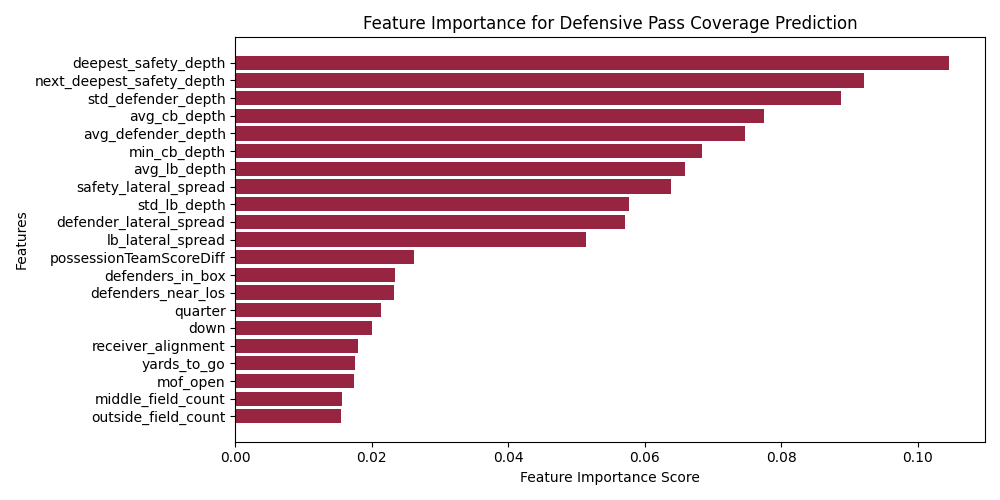
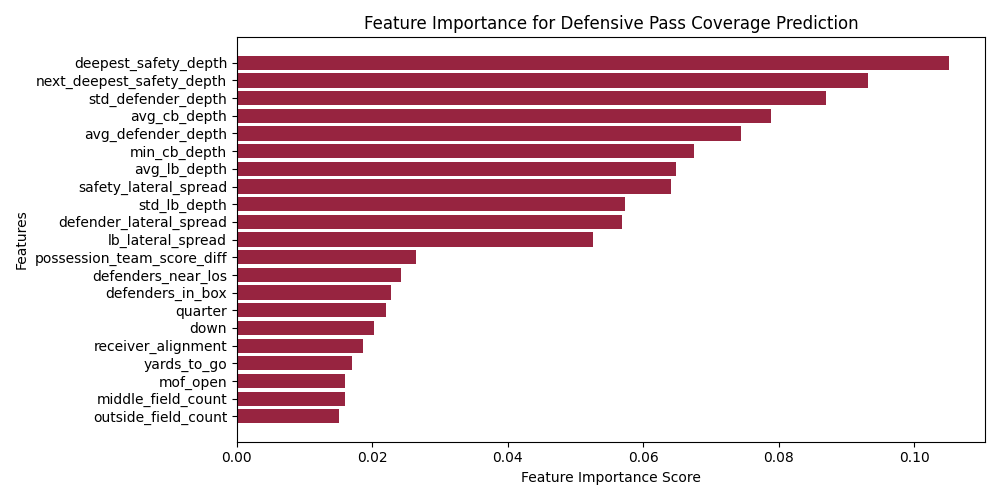
final changes

diff --git a/random_tree.py b/random_tree.py
@@ -16,77 +16,15 @@ def RandomForest(x, y, dataframe):
 
     train_x, test_x, train_y, test_y = train_test_split(x, y, test_size=0.2, random_state=42)
 
-    # CALCULATE BEST n_estimator
-    # n_estimators_range = range(10, 401, 10)
-    # n_accuracy_scores = []
-    # best_n = 0
-    # best_acc = 0
-    # for n in n_estimators_range:
-    #     print('n:', n)
-    #     rf = RandomForestClassifier(n_estimators=n, max_depth=20, random_state=42, class_weight='balanced') # 42
-    #     rf.fit(train_x, train_y)
-    #     y_pred = rf.predict(test_x)
+    # best_n_estimator, best_max_depth = get_optimal_hyperparameters(train_x, train_y, test_x, test_y)
+    # print('best_n_estimator:', best_n_estimator)
+    # print('best_max_depth:', best_max_depth)
+    best_n_estimator = 420
+    best_max_depth = 30
 
-    #     accuracy = accuracy_score(test_y, y_pred)
-    #     if accuracy > best_acc:
-    #         best_acc = accuracy
-    #         best_n = n
-
-    #     n_accuracy_scores.append(accuracy)
-
-    # plt.figure(figsize=(10, 6))
-    # plt.plot(n_estimators_range, n_accuracy_scores, marker='o')
-    # plt.title('Effect of n_estimators on Random Forest Performance')
-    # plt.xlabel('Number of Trees (n_estimators)')
-    # plt.ylabel('Accuracy')
-    # plt.grid(True)
-    # plt.savefig('diagrams/n_estimators.png')
-
-    # print('BEST n_estimator:', best_n)
-
-    # CALCULATE BEST max_depth_range
-    # max_depth_range = range(1, 41)
-    # depth_accuracy_scores = []
-    # best_depth = 0
-    # best_acc = 0
-    # for depth in max_depth_range:
-    #     print('depth:', depth)
-    #     rf = RandomForestClassifier(n_estimators=180, max_depth=depth, random_state=42, class_weight='balanced') # 42
-    #     rf.fit(train_x, train_y)
-    #     y_pred = rf.predict(test_x)
-
-    #     accuracy = accuracy_score(test_y, y_pred)
-    #     if accuracy > best_acc:
-    #         best_acc = accuracy
-    #         best_depth = depth
-
-    #     depth_accuracy_scores.append(accuracy)
-
-    # plt.figure(figsize=(10, 6))
-    # plt.plot(max_depth_range, depth_accuracy_scores, marker='o')
-    # plt.title('Effect of max_depth on Random Forest Performance')
-    # plt.xlabel('Max Depth')
-    # plt.ylabel('Accuracy')
-    # plt.grid(True)
-    # plt.savefig('diagrams/max_depths.png')
-
-    # print('BEST max_depth:', best_depth)
-    
-
-    best_n_estimator = 180
-    best_max_depth = 20
-
-
-    # Best results:  n_estimators=200, max_depth=20, random_state=42, class_weight='balanced'
     rf = RandomForestClassifier(n_estimators=best_n_estimator, max_depth=best_max_depth, random_state=42, class_weight='balanced') # 42
     rf.fit(train_x, train_y)
     y_pred_rf = rf.predict(test_x)
-
-
-
-
-
-
 
 
     majority_class = np.bincount(train_y).argmax()
@@ -100,17 +38,13 @@ def RandomForest(x, y, dataframe):
     print('======================================================================================================')
     print(f'Random Forest Accuracy: {accuracy_score(test_y, y_pred_rf)*100:.2f}% (~0.02 seconds)')
     print(f'Baseline Accuracy:\t{baseline_accuracy*100:.2f}%')
-    print(f'Baseline Precision:\t{precision_baseline*100:.2f}%')
-    print(f'Baseline Recall:\t{recall_baseline*100:.2f}%')
-    print(f'Baseline F1-Score:\t{f1_baseline*100:.2f}%')
     print(classification_report(test_y, y_pred_rf))
 
 
 
     # DIAGRAMS
     ######################################################################################################
-    classes = ['Cover-1', 'Cover-2', 'Cover-3', 'Cover-6', 'Cover-4', 'Other']
-    # classes = ['C-1 Man', 'C-2']
+    classes = ['Cover-1', 'Cover-2', 'Cover-3', 'Cover-6', 'Quarters', 'Other']
     cardinals_red = '#972440'
 
     # FEATURE IMPORTANCE
@@ -146,49 +80,49 @@ def RandomForest(x, y, dataframe):
     plt.ylabel('True Labels')
     plt.title('Confusion Matrix')
     plt.tight_layout()
-    plt.savefig('diagrams/rf_confusion_matrix_51features.png')
+    plt.savefig('diagrams/rf_confusion_matrix.png')
 
 
 
     # dataframe_temp = dataframe[dataframe['down'] != 4.0] # Remove 'Other' coverage class and 4th-Down plays
-    coverage_dist = dataframe.groupby(['down', 'target_y']).size().unstack()
-    coverage_dist = coverage_dist.div(coverage_dist.sum(axis=1), axis=0) # Normalize
-    fig, axes = plt.subplots(2, 2, figsize=(12, 10))
-    downs = [1, 2, 3, 4]
-    suffix = ['st', 'nd', 'rd', 'th']
-    colors = ['#fc7060', '#db44d4', '#f0872b', '#7dcc7f', '#ffe046', '#1a76bc']
-    for i, down in enumerate(downs):
-        ax = axes[i//2, i%2]  # Calculate position for a 2x2 grid
-        ax.pie(coverage_dist.loc[down], labels=classes, colors=colors, autopct='%1.1f%%', startangle=90)
-        ax.set_title(f'Coverage Distribution - {down}{suffix[i]}-Down')
+    # coverage_dist = dataframe.groupby(['down', 'target_y']).size().unstack()
+    # coverage_dist = coverage_dist.div(coverage_dist.sum(axis=1), axis=0) # Normalize
+    # fig, axes = plt.subplots(2, 2, figsize=(12, 10))
+    # downs = [1, 2, 3, 4]
+    # suffix = ['st', 'nd', 'rd', 'th']
+    # colors = ['#fc7060', '#db44d4', '#f0872b', '#7dcc7f', '#ffe046', '#1a76bc']
+    # for i, down in enumerate(downs):
+    #     ax = axes[i//2, i%2]  # Calculate position for a 2x2 grid
+    #     ax.pie(coverage_dist.loc[down], labels=classes, colors=colors, autopct='%1.1f%%', startangle=90)
+    #     ax.set_title(f'Coverage Distribution - {down}{suffix[i]}-Down')
 
-    plt.tight_layout()
-    plt.savefig('diagrams/coverage_distribution_pie.png')
+    # plt.tight_layout()
+    # plt.savefig('diagrams/coverage_distribution_pie.png')
 
 
 
     # Create a subset of features relevant to coverage prediction
-    dataframe_temp = dataframe[dataframe['target_y'] != 5.0] # Remove 'Other' coverage class
-    relevant_features = dataframe_temp[['deepest_safety_depth', 'next_deepest_safety_depth', 'target_y']]
-    sns.pairplot(relevant_features, hue='target_y', palette='Set1')
-    # pairplot._legend.remove()
-    # plt.legend(title='Coverage Type', labels=classes, bbox_to_anchor=(1.9, 1), loc='upper right')
-    # plt.subplots_adjust(right=0.85)
+    # dataframe_temp = dataframe[dataframe['target_y'] != 5.0] # Remove 'Other' coverage class
+    # relevant_features = dataframe_temp[['deepest_safety_depth', 'next_deepest_safety_depth', 'target_y']]
+    # sns.pairplot(relevant_features, hue='target_y', palette='Set1')
+    # # pairplot._legend.remove()
+    # # plt.legend(title='Coverage Type', labels=classes, bbox_to_anchor=(1.9, 1), loc='upper right')
+    # # plt.subplots_adjust(right=0.85)
+    # # plt.tight_layout()
+    # plt.savefig('diagrams/key_features_pairwise.png')
+
+
+    # dataframe_temp = dataframe[dataframe['target_y'] != 5.0] # Remove 'Other' coverage class
+    # # dataframe_temp['targey_y'] = dataframe_temp['target_y'].map(lambda x: classes[x]) # Map target_y class names
+    # plt.figure(figsize=(10, 6))
+    # # sns.boxplot(x='target_y', y='next_deepest_safety_depth', data=dataframe_temp, palette='Set2')
+    # sns.boxplot(x='target_y', y='next_deepest_safety_depth', data=dataframe_temp, hue='target_y', palette='Set2', legend=False)
+    # plt.title('Distribution of "next_deepest_safety_depth" by Coverage Type')
+    # plt.xlabel('Coverage Type')
+    # plt.ylabel('Next Deepest Safety Depth')
+    # plt.xticks(rotation=45)
     # plt.tight_layout()
-    plt.savefig('diagrams/key_features_pairwise.png')
-
-
-    dataframe_temp = dataframe[dataframe['target_y'] != 5.0] # Remove 'Other' coverage class
-    # dataframe_temp['targey_y'] = dataframe_temp['target_y'].map(lambda x: classes[x]) # Map target_y class names
-    plt.figure(figsize=(10, 6))
-    # sns.boxplot(x='target_y', y='next_deepest_safety_depth', data=dataframe_temp, palette='Set2')
-    sns.boxplot(x='target_y', y='next_deepest_safety_depth', data=dataframe_temp, hue='target_y', palette='Set2', legend=False)
-    plt.title('Distribution of "next_deepest_safety_depth" by Coverage Type')
-    plt.xlabel('Coverage Type')
-    plt.ylabel('Next Deepest Safety Depth')
-    plt.xticks(rotation=45)
-    plt.tight_layout()
-    plt.savefig('diagrams/next_deepest_safety_depth_distribution.png')
+    # plt.savefig('diagrams/next_deepest_safety_depth_distribution.png')
 
 
     # Create boxplots for avg_depth features across coverage types
@@ -208,18 +142,85 @@ def RandomForest(x, y, dataframe):
     # plt.savefig('diagrams/depth_pairplots.png')
 
 
-    param_grid = {
-        'n_estimators': [100, 200, 300],
-        'max_depth': [10, 15, 20],
-        'min_samples_split': [2, 5, 10],
-        'min_samples_leaf': [2, 4, 6],
-        'max_features': ['auto', 'sqrt']
-    }
+    # param_grid = {
+    #     'n_estimators': [100, 200, 300],
+    #     'max_depth': [10, 15, 20],
+    #     'min_samples_split': [2, 5, 10],
+    #     'min_samples_leaf': [2, 4, 6],
+    #     'max_features': ['auto', 'sqrt']
+    # }
 
     # rf = RandomForestClassifier(random_state=42)
     # grid_search = GridSearchCV(estimator=rf, param_grid=param_grid, cv=3, n_jobs=-1, scoring='accuracy')
     # grid_search.fit(train_x, train_y)
 
     # print(grid_search.best_params_)
+
+def get_optimal_hyperparameters(train_x, train_y, test_x, test_y):
+    n_estimators_range = range(10, 501, 10)
+    n_accuracy_scores_depth10 = []
+    n_accuracy_scores_depth20 = []
+    n_accuracy_scores_depth30 = []
+    n_accuracy_scores_depth40 = []
+    best_n = 0
+    best_depth = 0
+    best_acc = 0
+    for n in n_estimators_range:
+        print('n:', n)
+
+        rf_depth10 = RandomForestClassifier(n_estimators=n, max_depth=10, random_state=42, class_weight='balanced')
+        rf_depth10.fit(train_x, train_y)
+        y_pred_depth10 = rf_depth10.predict(test_x)
+        accuracy_depth10 = accuracy_score(test_y, y_pred_depth10)
+        n_accuracy_scores_depth10.append(accuracy_depth10)
+        if accuracy_depth10 > best_acc:
+            best_acc = accuracy_depth10
+            best_n = n
+            best_depth = 10
+
+        rf_depth20 = RandomForestClassifier(n_estimators=n, max_depth=20, random_state=42, class_weight='balanced')
+        rf_depth20.fit(train_x, train_y)
+        y_pred_depth20 = rf_depth20.predict(test_x)
+        accuracy_depth20 = accuracy_score(test_y, y_pred_depth20)
+        n_accuracy_scores_depth20.append(accuracy_depth20)
+        if accuracy_depth20 > best_acc:
+            best_acc = accuracy_depth20
+            best_n = n
+            best_depth = 20
+
+        rf_depth30 = RandomForestClassifier(n_estimators=n, max_depth=30, random_state=42, class_weight='balanced')
+        rf_depth30.fit(train_x, train_y)
+        y_pred_depth30 = rf_depth30.predict(test_x)
+        accuracy_depth30 = accuracy_score(test_y, y_pred_depth30)
+        n_accuracy_scores_depth30.append(accuracy_depth30)
+        if accuracy_depth30 > best_acc:
+            best_acc = accuracy_depth30
+            best_n = n
+            best_depth = 30
+
+        rf_depth40 = RandomForestClassifier(n_estimators=n, max_depth=40, random_state=42, class_weight='balanced')
+        rf_depth40.fit(train_x, train_y)
+        y_pred_depth40 = rf_depth40.predict(test_x)
+        accuracy_depth40 = accuracy_score(test_y, y_pred_depth40)
+        n_accuracy_scores_depth40.append(accuracy_depth40)
+        if accuracy_depth40 > best_acc:
+            best_acc = accuracy_depth40
+            best_n = n
+            best_depth = 40
+
+
+    plt.figure(figsize=(10, 6))
+    plt.plot(n_estimators_range, n_accuracy_scores_depth10, marker='o', label='RF with max_depth=10')
+    plt.plot(n_estimators_range, n_accuracy_scores_depth20, marker='o', label='RF with max_depth=20')
+    plt.plot(n_estimators_range, n_accuracy_scores_depth30, marker='o', label='RF with max_depth=30')
+    plt.plot(n_estimators_range, n_accuracy_scores_depth40, marker='o', label='RF with max_depth=40')
+    plt.title('Effect of n_estimators and max_depth on Random Forest Accuracy')
+    plt.xlabel('Number of Trees (n_estimators)')
+    plt.ylabel('Accuracy')
+    plt.grid(True)
+    plt.legend()
+    plt.savefig('diagrams/nestimators_maxdepth_accuracies.png')
+
+    return best_n, best_depth
 
 

diff --git a/main.py b/main.py
@@ -22,24 +22,19 @@ def set_seed(seed_value=42):
 def main():
 
     set_seed()
+
+    is_training = False
     
-    # passing_down_model = PassingDown()
-    # start_time = time.perf_counter()
-    # passing_down_model.get_defensive_features_for_passing_plays()
-    # end_time = time.perf_counter()
-    # elapsed_time = end_time - start_time
-    # print(f"Function took {elapsed_time} seconds to complete.")
+    if is_training:
+        passing_down_model = PassingDown()
+        start_time = time.perf_counter()
+        passing_down_model.get_defensive_features_for_passing_plays()
+        end_time = time.perf_counter()
+        elapsed_time = end_time - start_time
+        print(f"Function took {elapsed_time} seconds to complete.")
 
-
-    # RUN MODELS
-    # data1 = pd.read_csv('features/play_features_pffCoverage_55features_0-2500.csv')
-    # data2 = pd.read_csv('features/play_features_pffCoverage_55features_2500-5500.csv')
-    # data3 = pd.read_csv('features/play_features_pffCoverage_55features_5500-8500.csv')
-    # data4 = pd.read_csv('play_features_pffCoverage_40features_8500-9736.csv')
-    # data = pd.concat([data1, data2, data3], ignore_index=True)
-    # data.to_csv(f'features/play_features_pffCoverage_55features_0-8500.csv', index=False)
-    data = pd.read_csv('features/play_features_pffCoverage_51features_0-8500.csv')
-
+    # Obtain input features
+    data = pd.read_csv('features/play_features_pffCoverage_21features_passplays0-8500.csv')
 
     # Column types
     x_coords = ['defender1_x', 'defender2_x', 'defender3_x', 'defender4_x', 'defender5_x', 'defender6_x', 'defender7_x', 'defender8_x', 'defender9_x', 'defender10_x', 'defender11_x']
@@ -54,11 +49,6 @@ def main():
     safety_data = ['safety_depth_diff', 'std_safety_depth', 'avg_safety_depth']
     test = ['avg_defender_to_deepest_safety_depth']
 
-    # INSIGHTS:
-    # - Removing x_coords only produces the best result
-    # - Game-state and Lateral/y data have very little effect on the accuracy
-    # - The most important data is the depth data
-    
     # BEST RESULTS
     data = data.drop(columns=(x_coords + y_coords + db_data + safety_data + test)) # test = 'avg_defender_to_deepest_safety_depth'
     # data = data.drop(columns=(x_coords))
@@ -77,12 +67,6 @@ def main():
 
     y_distribution = y.value_counts()
     print(y_distribution)
-
-    # majority_class_count = y_distribution.max()
-    # print(f'BASELINE ACCURACY: {(majority_class_count / y.shape[0])*100:.2f}%')
-
-
-
 
     rt = random_tree.RandomForest(x, y, data)
 
